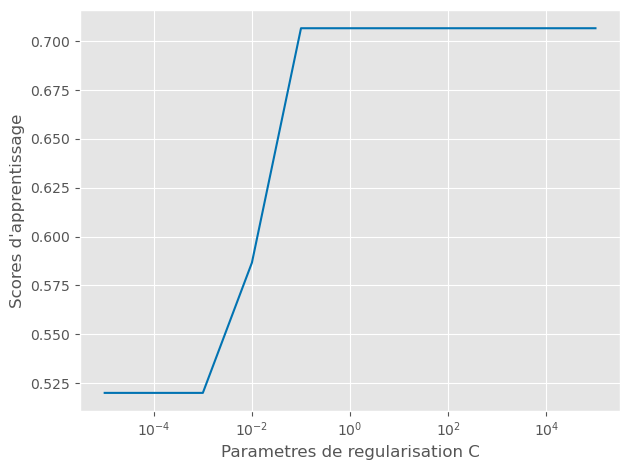
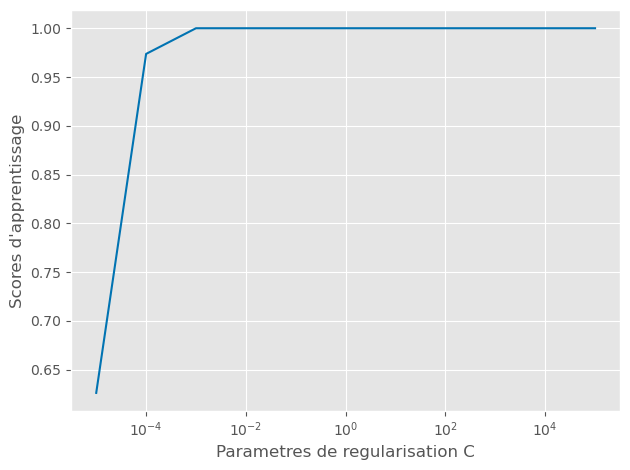
Rectification ajout de graines

diff --git a/Source/svm_script.py b/Source/svm_script.py
@@ -97,8 +97,9 @@ y = y[y != 0]
 # split train test (say 25% for the test)
 # You can shuffle and then separate or you can just use train_test_split 
 #whithout shuffling (in that case fix the random state (say to 42) for reproductibility)
-X,y = shuffle(X,y)
-X_train, X_test, y_train, y_test = train_test_split(X, y, test_size=0.25, random_state=42)
+
+X,y = shuffle(X,y, random_state=42)
+X_train, X_test, y_train, y_test = train_test_split(X, y, test_size=0.25, shuffle=False)
 ###############################################################################
 # fit the model with linear vs polynomial kernel
 ###############################################################################
@@ -313,7 +314,7 @@ plt.show()
 
 #%%
 # Q5
-
+np.random.seed(42)
 def run_svm_cv(_X, _y):
     _indices = np.random.permutation(_X.shape[0])
     _train_idx, _test_idx = _indices[:_X.shape[0] // 2], _indices[_X.shape[0] // 2:]
@@ -344,7 +345,8 @@ run_svm_cv(X_noisy,y)
 
 #%%
 # Q6
-n_components = 70  # jouer avec ce parametre
+n_components = 200 # jouer avec ce parametre
+np.random.seed(42)
 pca = PCA(n_components=n_components,svd_solver='randomized').fit(X_noisy)
 X_noisy2 = pca.fit_transform(X_noisy)
 print("Score apres reduction de dimension")
